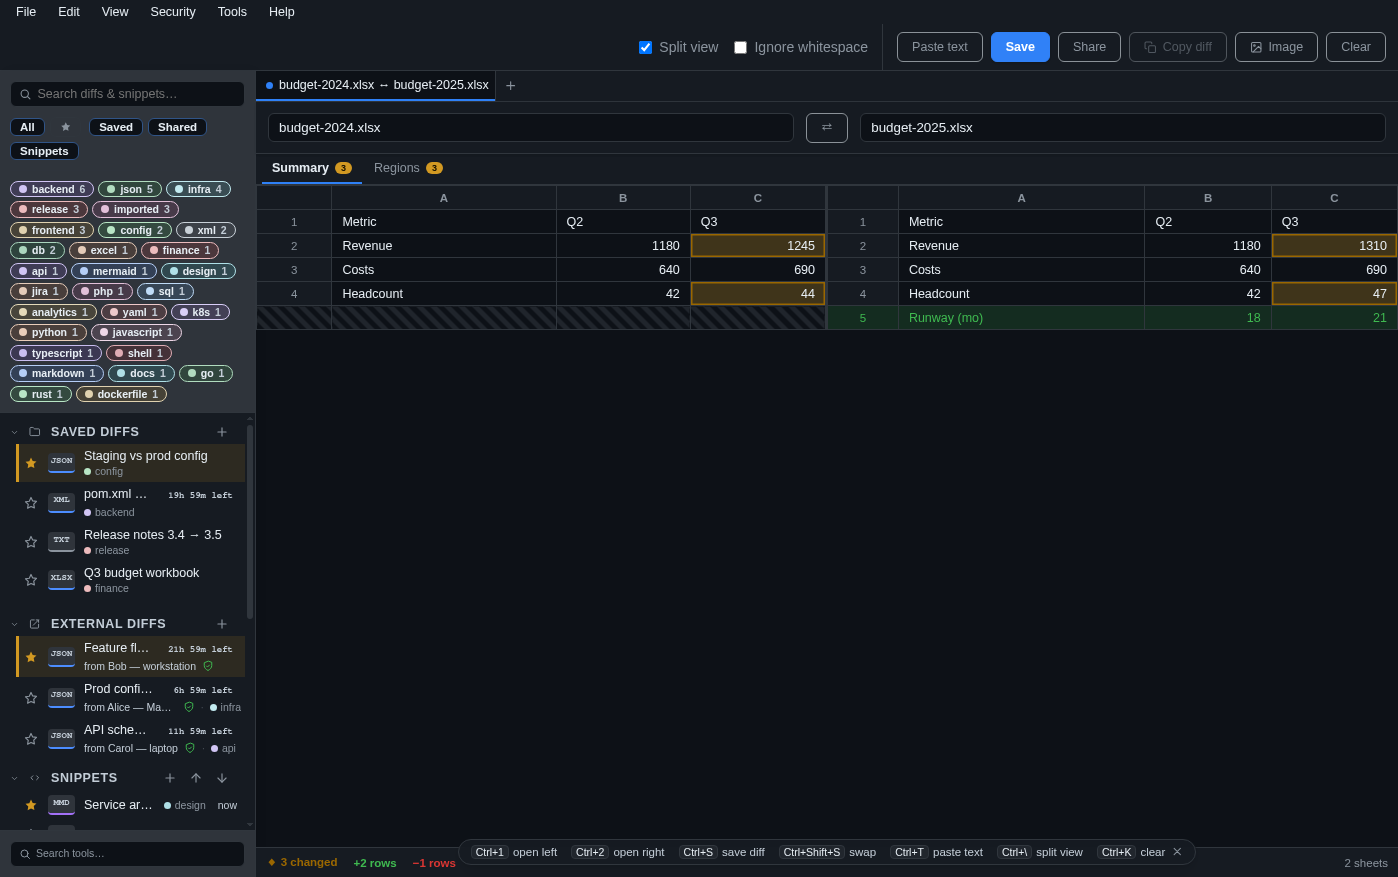
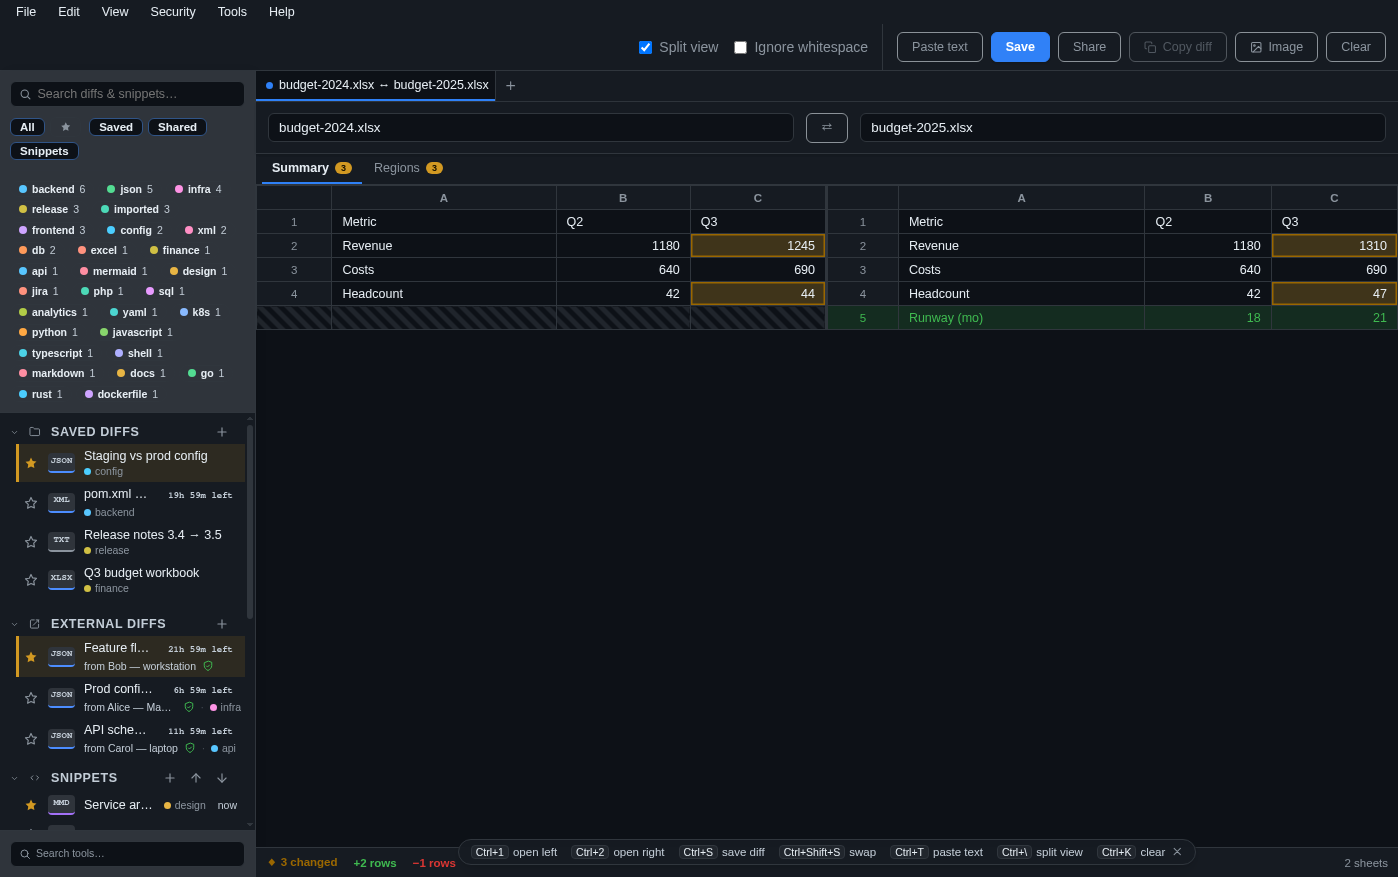
fix(tags): keep the picked hue, and make a picked chip look picked
Two defects, one cause: the chip treated a tag's colour as something to
blend rather than something to re-light.

Inking by mixing toward --text drained chroma along with lightness —
#39c5cf rendered as rgb(32,77,80), near-black, and #3fb950 and #56d364
came out as the same green. Only the LIGHTNESS is ever wrong for a
ground, so only lightness is changed now: --tag-ink re-lights the colour
in OKLCH to the theme's --tag-l (0.47 on the seven light grounds, 0.8 on
the seven dark ones) and passes hue and chroma through untouched.
check-theme-depth.mjs recomputes that in OKLab, gamut-mapping by chroma
reduction the way CSS Color 4 does, and holds it to the 3.0 non-text
floor on all 14 (worst 3.40, sepia #18b46d on --bg-elevated).

That exposed the palette: 20 entries but only ~8 distinct hues — three
greens inside 3 degrees, three reds inside 2 — which are indistinguishable
once lightness is equalised. It is now 20 hues evenly spaced around the
wheel, interleaved so two tags made in a row land on opposite sides of
it, guarded by a snippetStore test (red on the old palette: min gap
0.14 degrees). Existing tags keep their stored colour; this only changes
what a new tag is assigned.

Selected chips were two tints of one hue apart from unselected, which
read as identical. A chip is now an OUTLINE at rest — neutral keyline,
--text label, colour carried by the glyph — and a SOLID inked pill when
picked, with the label flipped to --bg so it stays legible on either
[…]

Changed region(s): [[0.0, 0.1847, 0.1845, 0.4618]]

diff --git a/src/renderer/src/styles/ui.css b/src/renderer/src/styles/ui.css
@@ -372,18 +372,16 @@
   font-size: var(--font-2xs);
   font-weight: 700;
 }
-/* Tag ink. The tag palette is tuned for dark grounds, so a raw tag colour sits
-   at ~1.2–1.9 against the seven light themes' surfaces. Mixing toward --text
-   moves the hue away from the ground in EVERY theme; check-theme-depth.mjs
-   reads this percentage and holds it to the 3.0 non-text floor across all 14
-   (worst 3.22, sepia #76e3ea on --bg-elevated). Declared on the chip, not
-   :root — a custom property resolves var(--tc) where it is DECLARED, so a :root
-   token would bind one --tc for every tag alike. Legibility never rides on the
-   tag colour: labels stay --text. */
+/* Tag ink. A tag colour is picked by the user, so only its LIGHTNESS can be
+   wrong for the ground — and only lightness is changed, to --tag-l, leaving hue
+   and chroma alone. Mixing toward --text instead drains chroma with it: #39c5cf
+   came out near-black and two different greens became one. Declared on the chip,
+   not :root — a custom property resolves var(--tc) where it is DECLARED.
+   check-theme-depth.mjs holds this to the 3.0 non-text floor on all 14. */
 .tag-word,
 .tag-chip,
 .tglyph {
-  --tag-ink: color-mix(in srgb, var(--tc, var(--text-dim)) 32%, var(--text));
+  --tag-ink: oklch(from var(--tc, var(--text-dim)) var(--tag-l) c h);
 }
 .tag-word {
   flex: none;
@@ -401,8 +399,9 @@
   border-radius: var(--radius-pill);
   background: var(--tag-ink);
 }
-/* The one tag pill: filter chips, field pills, suggestions. Colour identifies,
-   tokens keep it readable — an inked keyline over a --text label. */
+/* The one tag pill: filter chips, field pills, suggestions. At rest it is an
+   OUTLINE — a neutral keyline and a --text label, with the tag's colour carried
+   by the glyph alone. Inking every resting border made all of them look picked. */
 .tag-chip {
   display: inline-flex;
   align-items: center;
@@ -412,14 +411,43 @@
   font-weight: 600;
   line-height: 1;
   border-radius: var(--radius-pill);
-  border: 1px solid var(--tag-ink);
-  background: color-mix(in srgb, var(--tc, var(--text-dim)) 14%, transparent);
+  border: 1px solid var(--border);
+  background: none;
   color: var(--text);
 }
 /* Only the interactive pills (filter chips, suggestions) — a field pill is a
    span and has nothing to press. */
 button.tag-chip:hover {
-  background: color-mix(in srgb, var(--tc, var(--text-dim)) 24%, transparent);
+  border-color: var(--tag-ink);
+  background: color-mix(in srgb, var(--tc, var(--text-dim)) 14%, transparent);
+}
+/* Picked: a SOLID inked pill against an outlined one. Two tints of the same hue
+   were indistinguishable; fill-vs-no-fill reads before the colour does. The
+   label flips to the ground colour, which is dark on light themes and light on
+   dark ones, so it stays legible either way (worst 4.69, sepia). */
+.tag-chip.on {
+  background: var(--tag-ink);
+  border-color: var(--tag-ink);
+  color: var(--bg);
+}
+.tag-chip.on .tglyph {
+  color: var(--bg);
+}
+.tag-chip.on .usb-dot {
+  background: var(--bg);
+}
+/* The usage count sits with the pill, not in each component's stylesheet, so it
+   can follow the label onto the fill instead of staying a dim neutral there. */
+.tag-chip .ct,
+.tag-chip .usb-tct {
+  color: var(--text-hint);
+  font-weight: 500;
+  font-variant-numeric: tabular-nums;
+}
+.tag-chip.on .ct,
+.tag-chip.on .usb-tct {
+  color: inherit;
+  opacity: 0.75;
 }
 .tag-word .tw-label {
   overflow: hidden;

diff --git a/src/renderer/src/styles/themes.css b/src/renderer/src/styles/themes.css
@@ -16,6 +16,10 @@
      indigo, which spread the one colour with a job thin enough to read as
      wallpaper. The content/diff surface stays pure white — the reading plane
      the app is about. */
+  /* A tag's colour is picked by the user, not the theme, so it cannot be a
+     token — it is re-lightened to this in OKLCH (ui.css) with its hue and chroma
+     left alone. Light grounds darken the tag; the seven dark ones raise it. */
+  --tag-l: 0.47;
   --bg: #ffffff;
   --bg-panel: #eeefef;
   --bg-hover: #e2e4e4;
@@ -75,6 +79,7 @@
 
 /* Dark — low-glare GitHub-night. */
 :root[data-theme='dark'] {
+  --tag-l: 0.8;
   --bg: #0d1117;
   --bg-panel: #161b22;
   --bg-hover: #21262d;
@@ -119,6 +124,7 @@
 
 /* Neon — electric cyan and neon add/remove on deep navy. */
 :root[data-theme='neon'] {
+  --tag-l: 0.8;
   --bg: #090d18;
   --bg-panel: #111829;
   --bg-hover: #1b2540;
@@ -142,6 +148,7 @@
 /* Nord — the low-saturation arctic palette; calm frost-blue accent on slate,
    soft green/red for add/remove. Easy on the eyes for long sessions. */
 :root[data-theme='nord'] {
+  --tag-l: 0.8;
   --bg: #2e3440;
   --bg-panel: #3b4252;
   --bg-hover: #434c5e;
@@ -190,6 +197,7 @@
    graphite ground with soft warm-white ink and a single muted amber-gold
    accent. Lower glare for long night sessions. */
 :root[data-theme='dim'] {
+  --tag-l: 0.8;
   --bg: #1b1917;
   --bg-panel: #232019;
   --bg-hover: #2c2820;
@@ -214,6 +222,7 @@
    WCAG-AAA. Pure-black ground, pure-white ink, saturated accent, bright hard
    borders. */
 :root[data-theme='beacon'] {
+  --tag-l: 0.8;
   --bg: #000000;
   --bg-panel: #0b0b0b;
   --bg-hover: #1a1a1a;
@@ -312,6 +321,7 @@
    and lime/rose diff colors. The chaos (the rainbow lane + reward cat) lives in
    non-content chrome (see NyanLane), so diffs stay legible. */
 :root[data-theme='nyan'] {
+  --tag-l: 0.8;
   --bg: #160a20;
   --bg-panel: #231033;
   --bg-hover: #2e1642;
@@ -337,6 +347,7 @@
 /* Matrix — phosphor green on near-black, like a CRT terminal. Pairs with the
    falling-glyph rain lane (MatrixRain.vue), the counterpart to Nyan's cat. */
 :root[data-theme='matrix'] {
+  --tag-l: 0.8;
   --bg: #020a04;
   --bg-panel: #061309;
   --bg-hover: #0c2312;

diff --git a/tests/renderer/stores/snippetStore.test.js b/tests/renderer/stores/snippetStore.test.js
@@ -195,6 +195,26 @@ describe('snippetStore — tags model', () => {
     expect(store.tags['auto-color'].color).not.toBe(TAG_PALETTE[6])
   })
 
+  // The chip normalises a tag colour's LIGHTNESS to the theme's ground (ui.css),
+  // so two palette entries that differ only in lightness render as one colour.
+  // The previous palette had 20 entries but ~8 hues — three greens inside 3°.
+  it('every palette colour is a distinct hue, not a lighter shade of another', () => {
+    const hueOf = (hex) => {
+      const lin = (c) => (c <= 0.04045 ? c / 12.92 : ((c + 0.055) / 1.055) ** 2.4)
+      const [r, g, b] = [1, 3, 5].map((i) => lin(parseInt(hex.slice(i, i + 2), 16) / 255))
+      const l = Math.cbrt(0.4122214708 * r + 0.5363325363 * g + 0.0514459929 * b)
+      const m = Math.cbrt(0.2119034982 * r + 0.6806995451 * g + 0.1073969566 * b)
+      const s = Math.cbrt(0.0883024619 * r + 0.2817188376 * g + 0.6299787005 * b)
+      const A = 1.9779984951 * l - 2.428592205 * m + 0.4505937099 * s
+      const B = 0.0259040371 * l + 0.7827717662 * m - 0.808675766 * s
+      return ((Math.atan2(B, A) * 180) / Math.PI + 360) % 360
+    }
+    const hues = TAG_PALETTE.map(hueOf).sort((a, b) => a - b)
+    const gaps = hues.map((h, i) => (i ? h - hues[i - 1] : h + 360 - hues.at(-1)))
+    expect(new Set(TAG_PALETTE).size).toBe(TAG_PALETTE.length)
+    expect(Math.min(...gaps)).toBeGreaterThan(10)
+  })
+
   it('update() re-encrypts content, renames, changes syntax, and retags', async () => {
     const store = useSnippetStore()
     const id = await store.add({ name: 'todo', content: 'old', language: 'auto', tags: ['a'] })

diff --git a/src/renderer/src/stores/snippetStore.js b/src/renderer/src/stores/snippetStore.js
@@ -12,28 +12,32 @@ export const URL_LANGUAGE = 'url'
 // (crypto in main; the key never enters this store). Organized by TAGS —
 // plaintext metadata, deliberately NOT in the AAD, so retagging never re-encrypts.
 
-// 20-color palette; a new tag takes the next unused color, then cycles.
+// 20 colours, evenly spaced around the OKLCH hue wheel at one lightness and
+// chroma, and interleaved so two tags made in a row land on opposite sides of it.
+// The previous set had 20 entries but only ~8 distinct hues (three greens within
+// 3 deg, three reds within 2), which the ink normalisation in ui.css then made
+// indistinguishable. A new tag takes the next unused colour, then cycles.
 export const TAG_PALETTE = [
-  '#4c8dff',
-  '#39c5cf',
-  '#3fb950',
-  '#56d364',
-  '#d29922',
-  '#e0823d',
-  '#f85149',
-  '#db61a2',
-  '#a371f7',
-  '#6cb6ff',
-  '#2da44e',
-  '#e3b341',
-  '#ff7b72',
-  '#bc8cff',
-  '#76e3ea',
-  '#f0883e',
-  '#ffa8cc',
-  '#8957e5',
-  '#cf222e',
-  '#8b949e'
+  '#e9687e',
+  '#c18f00',
+  '#18b46d',
+  '#00a7d8',
+  '#a87eeb',
+  '#ea6c5a',
+  '#aa9a00',
+  '#00b292',
+  '#299ff4',
+  '#c075d7',
+  '#e57431',
+  '#8ca507',
+  '#00afab',
+  '#6594fa',
+  '#d46ebd',
+  '#d68200',
+  '#62ae45',
+  '#00abc0',
+  '#8a89f7',
+  '#e1699f'
 ]
 // Per-entry tag cap (one slot is often the auto-added format tag).
 export const MAX_TAGS = 20

diff --git a/src/renderer/src/components/styles/SnippetTagBar.css b/src/renderer/src/components/styles/SnippetTagBar.css
@@ -56,26 +56,11 @@
 }
 .chip.def {
   --tc: var(--text-dim);
-  background: none;
-  border-color: var(--border);
 }
-.chip .ct {
-  color: var(--text-hint);
-  font-weight: 500;
-}
-/* Selected: the tint deepens and the keyline doubles, so "on" reads from the
-   shape rather than from a colour shift the pastel palette cannot carry. */
-.chip.on {
-  background: color-mix(in srgb, var(--tc) 26%, transparent);
-  box-shadow: inset 0 0 0 1px var(--tag-ink);
-}
-.chip.def.on {
-  border-color: var(--text-dim);
-}
-/* Soften every non-selected chip while a filter is active, so the active pops. */
+/* Soften every non-selected chip while a filter is active, so the picked one
+   pops. Gentle now that the picked chip is a solid fill — 0.34 buried them. */
 .tagbar.has-active .chip:not(.on) {
-  opacity: 0.34;
-  filter: saturate(0.45);
+  opacity: 0.6;
 }
 .tagbar.has-active .chip:not(.on):hover {
   opacity: 0.9;

diff --git a/src/renderer/src/components/styles/SavedDiffs.css b/src/renderer/src/components/styles/SavedDiffs.css
@@ -128,20 +128,12 @@
   padding: 2px 8px;
   font-size: var(--font-xs);
 }
-.usb-tag.on {
-  background: color-mix(in srgb, var(--tc) 26%, transparent);
-  box-shadow: inset 0 0 0 1px var(--tag-ink);
-}
 .usb-dot {
   width: 8px;
   height: 8px;
   border-radius: 50%;
   flex: none;
   background: var(--tag-ink);
-}
-.usb-tct {
-  color: var(--text-hint);
-  font-variant-numeric: tabular-nums;
 }
 .usb-scroll {
   flex: 1;
